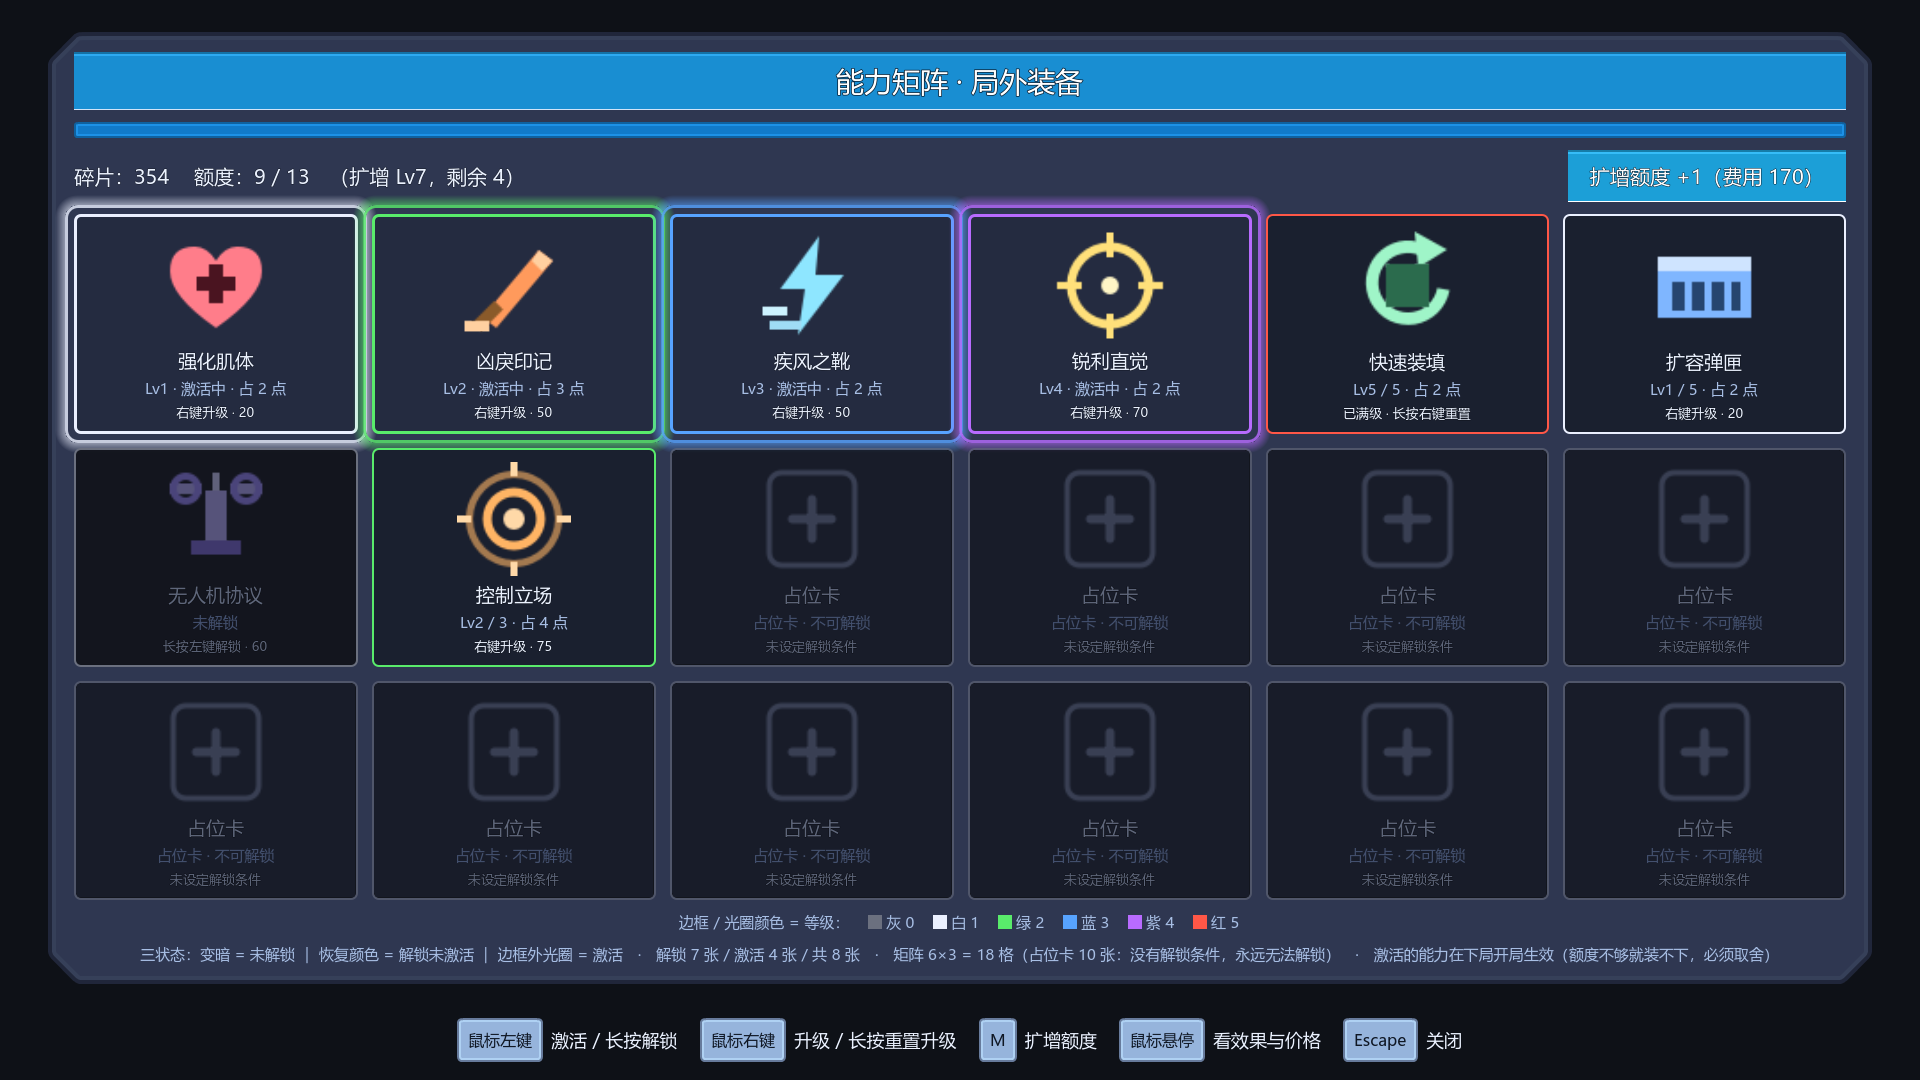
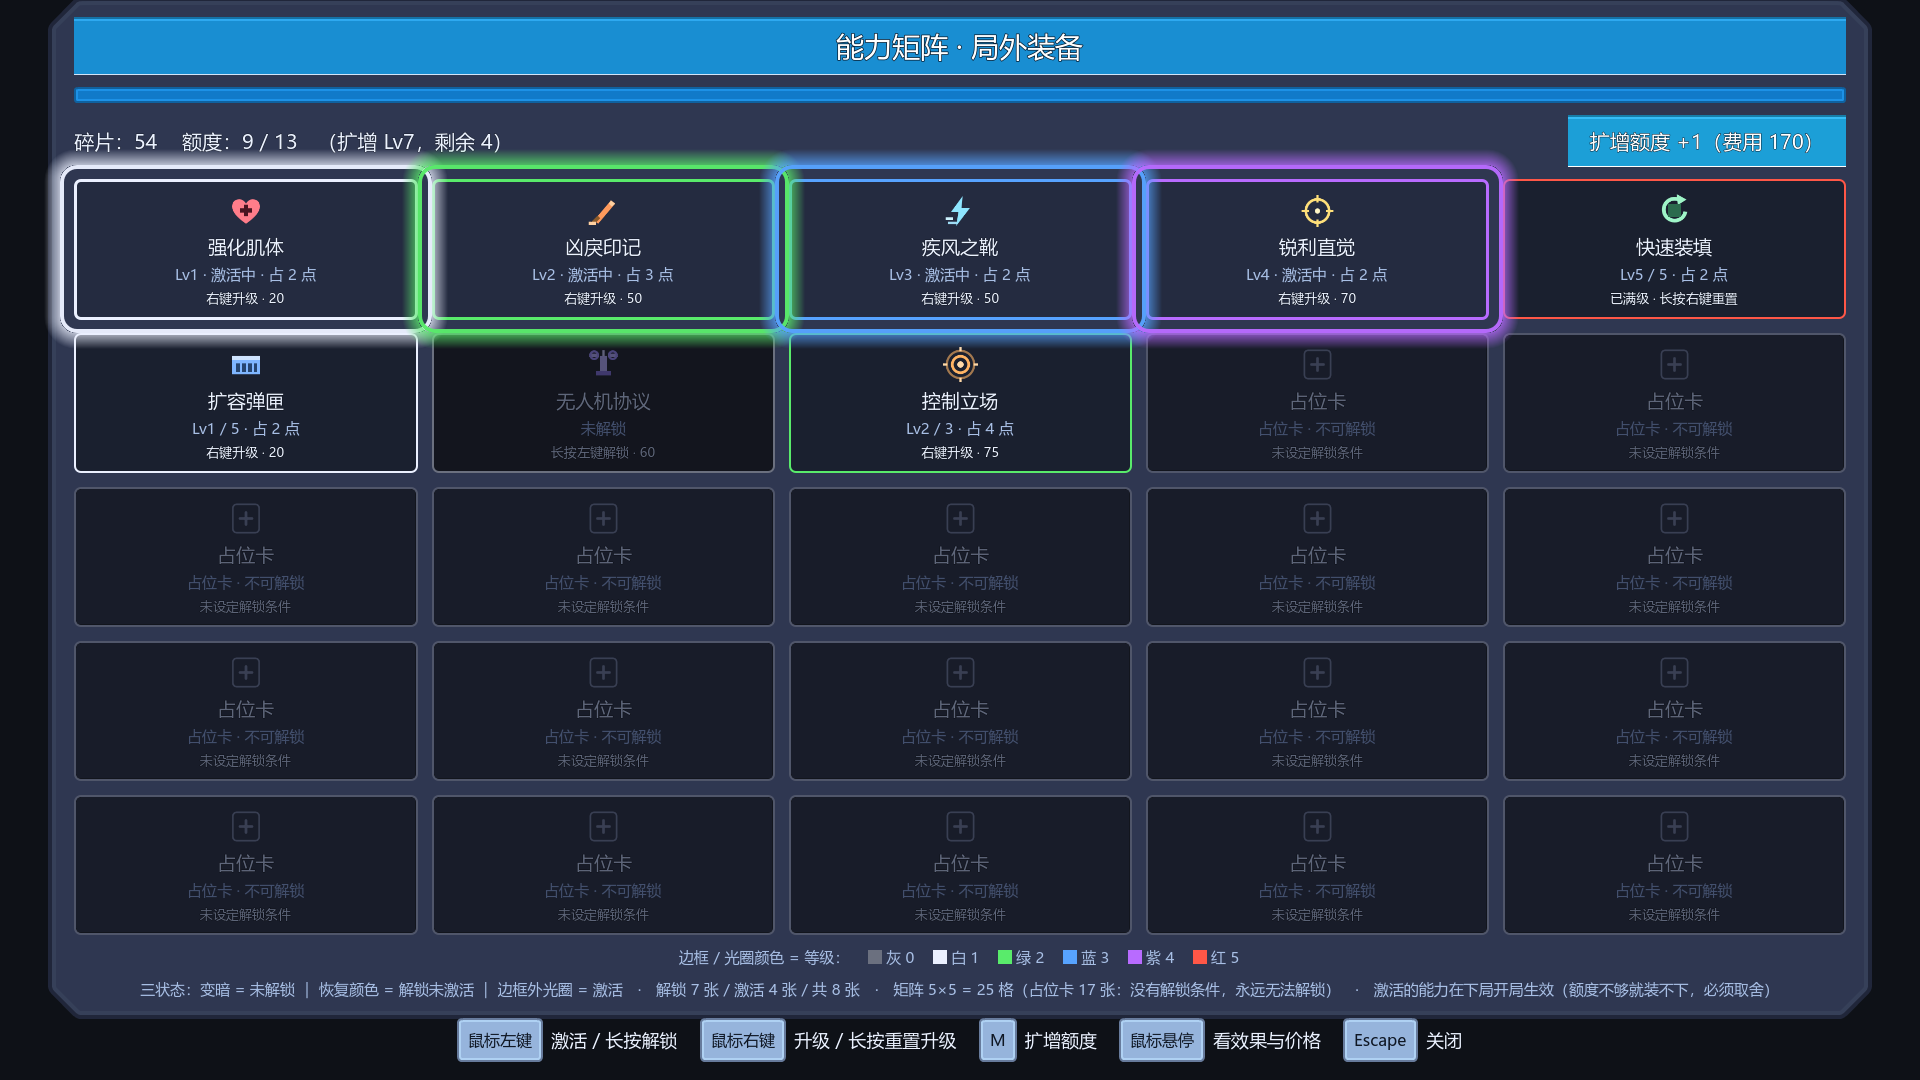
feat(ui): 能力卡牌改成竖长卡面 + 光圈明显 + 5x5 铺满矩阵
用户反馈「不像卡牌」「要铺满卡牌的页面而不是几个按钮」「光圈看不到」，逐条改：

1) 卡面竖长：AbilityCardTile 的 custom_minimum_size 从 120x110（宽>高）改成
   110x140（高>宽），像扑克牌/哈迪斯祝福卡；图标最小高 40 -> 34 以适配。
2) 矩阵放大到 5x5：AbilityMatrixScreen 的 Columns 6->5、Rows 3->5、
   GridContainer.columns 6->5 => 25 格（8 张真卡 + 17 张占位卡），永远填满不翻页。
3) 光圈做明显（之前几乎看不见）：
   - Glow 外扩从每边 9px 提到 14px
   - ShadowSize 10 -> 16、BorderColor alpha 0.85 -> 1.0、ShadowColor alpha 0.55 -> 0.75
   - 边框宽 3 -> 4、圆角 12 -> 16
   - 加 z_index = 1，让光圈画在 Frame 之上（否则被卡面盖住）

截图 docs/screenshots/ability_new_cards.png（改前 6x3 横宽卡）、
ability_cards_v2.png（最终 5x5 竖长卡 + 六档光圈全部可见）。

注：本提交同时含上一次已 push 的场景迁移（AbilityMatrixScreen 从 Main 挪到 Base）
的后续微调。

diff --git a/Scripts/UI/AbilityCardTile.cs b/Scripts/UI/AbilityCardTile.cs
@@ -226,17 +226,17 @@ public partial class AbilityCardTile : Control
 			{
 				BgColor = new Color(0, 0, 0, 0),
 				DrawCenter = false,
-				BorderColor = new Color(border.R, border.G, border.B, 0.85f),
-				ShadowColor = new Color(border.R, border.G, border.B, 0.55f),
-				ShadowSize = 10,
+				BorderColor = new Color(border.R, border.G, border.B, 1f),
+				ShadowColor = new Color(border.R, border.G, border.B, 0.75f),
+				ShadowSize = 16,
 				ShadowOffset = Vector2.Zero,
-				CornerRadiusTopLeft = 12,
-				CornerRadiusTopRight = 12,
-				CornerRadiusBottomLeft = 12,
-				CornerRadiusBottomRight = 12,
+				CornerRadiusTopLeft = 16,
+				CornerRadiusTopRight = 16,
+				CornerRadiusBottomLeft = 16,
+				CornerRadiusBottomRight = 16,
 				AntiAliasing = true,
 			};
-			glow.SetBorderWidthAll(3);
+			glow.SetBorderWidthAll(4);
 			_glow.AddThemeStyleboxOverride("panel", glow);
 			_glow.Visible = active;
 			_glow.Modulate = new Color(1, 1, 1, active ? 1f : 0f);
